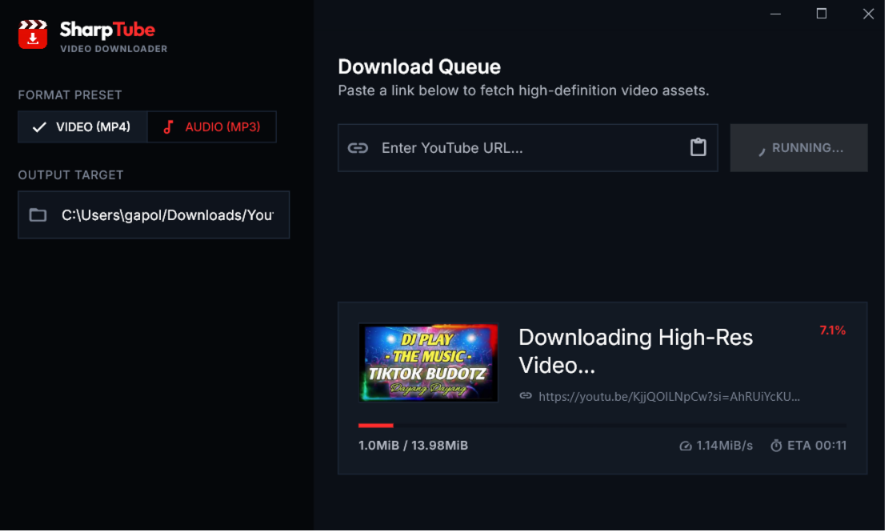
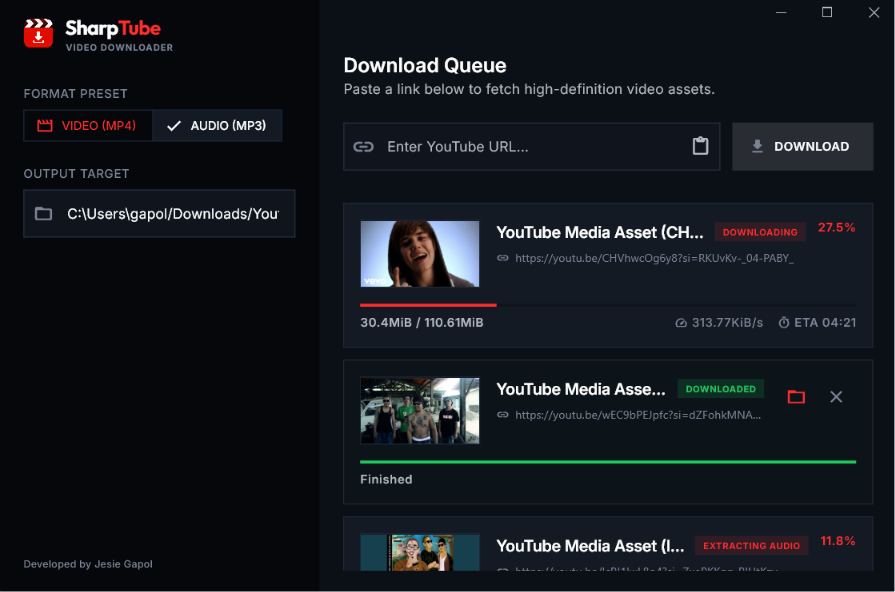
update

diff --git a/data/projects.js b/data/projects.js
@@ -419,11 +419,12 @@ export const projects = [
   {
     title: 'SharpTube: Desktop Media Downloader',
     description: 'An architectural-focused desktop application built with Flutter and the BLoC pattern. It delivers real-time asset extraction by bridging yt-dlp pipelines with high-fidelity performance metrics, custom OS-level native title bar bindings, a fully adaptive fluid sidebar layout, and an offline-first download tracking queue.',
-    image: 'assets/images/projects/yt-dl/cover-v2.png',
+    image: 'assets/images/projects/yt-dl/cover.png',
     images: [
       // 1. App Startup & Authentication
       'assets/images/projects/yt-dl/ss1.png',
       'assets/images/projects/yt-dl/ss2.png',
+      'assets/images/projects/yt-dl/ss3.png',
     ],
     techStack: ['Flutter', 'Dart', 'BLoC', 'yt-dlp'],
     githubUrl: 'https://github.com/jcgpl-dev/youtube_downloader',
